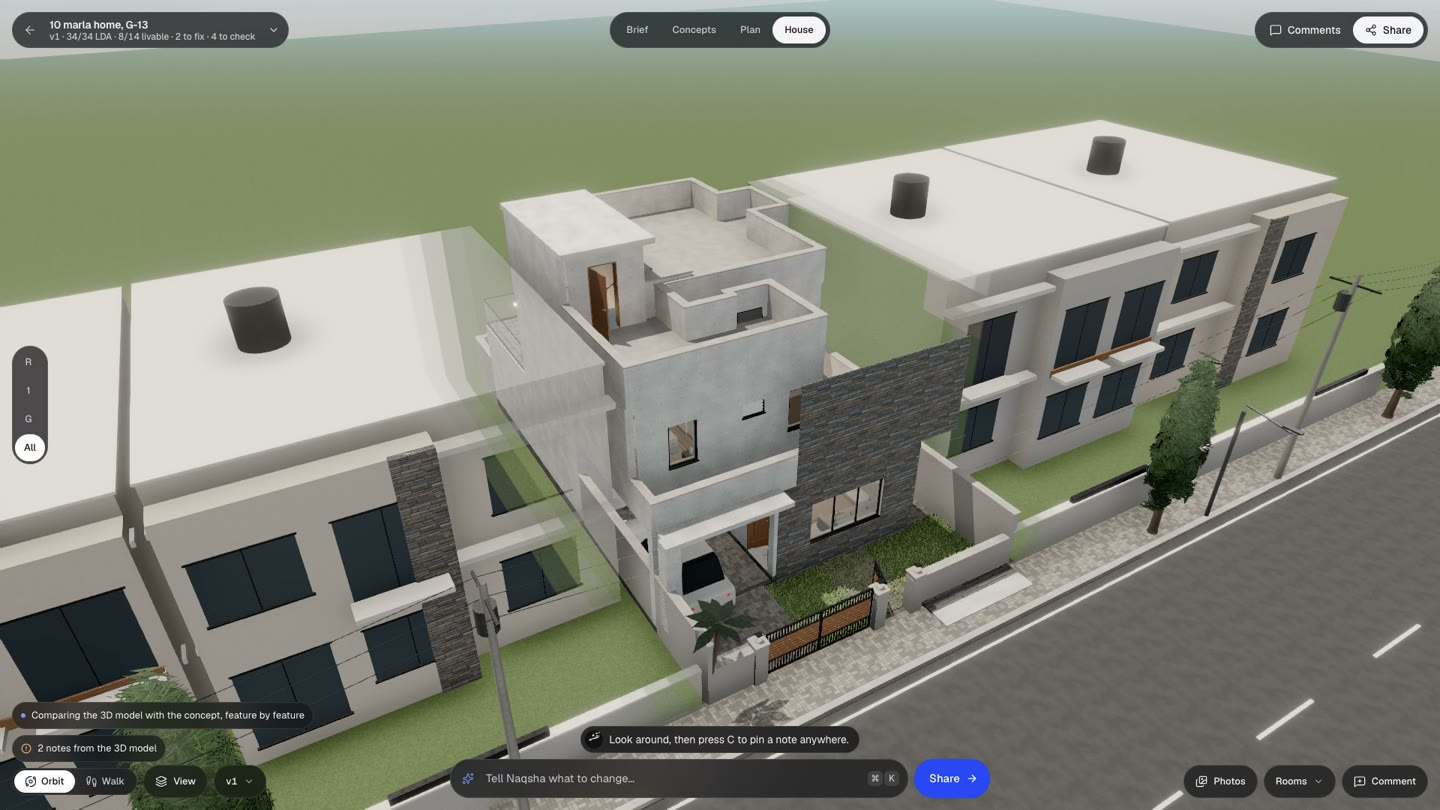
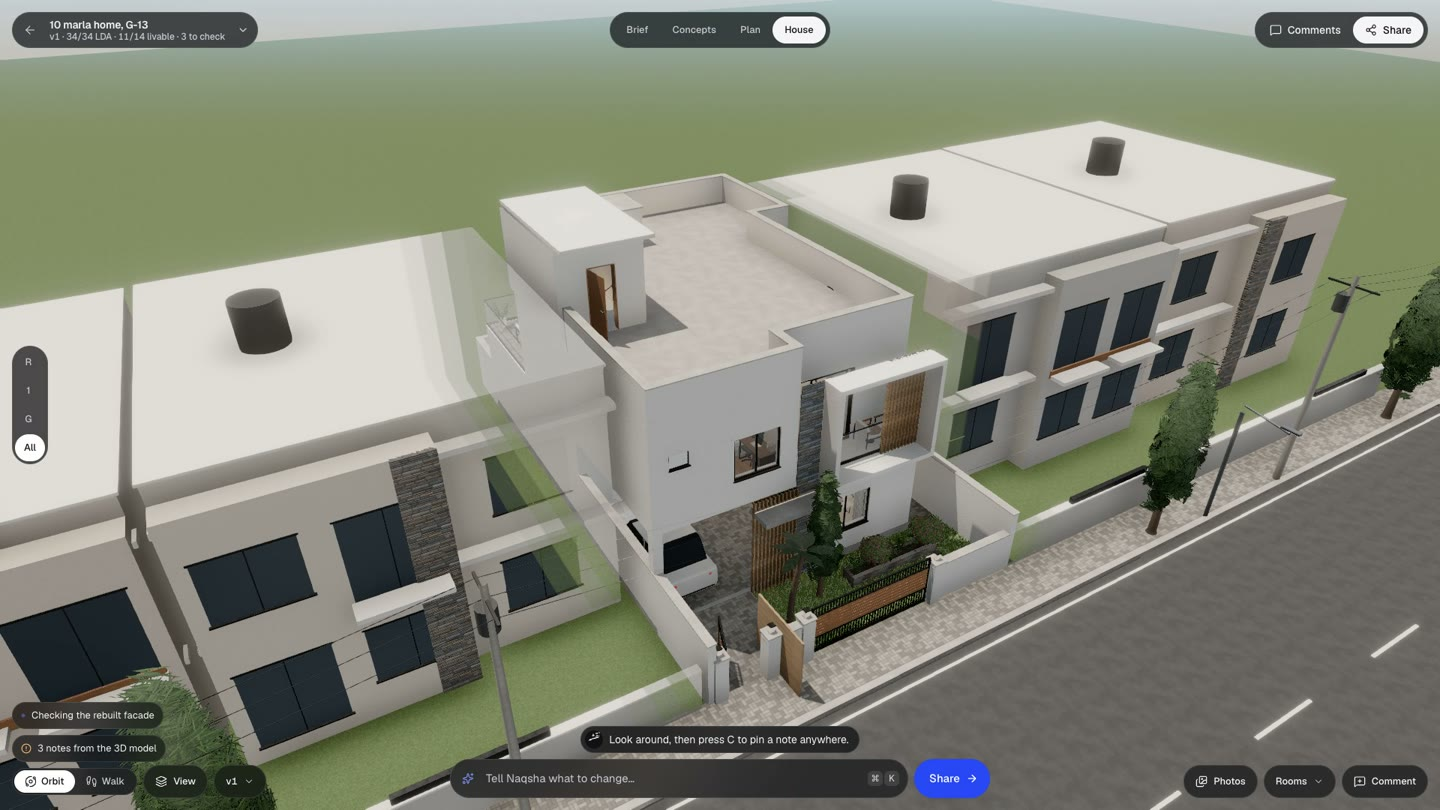
README screens from the successful Islamabad run

diff --git a/README.md b/README.md
@@ -29,11 +29,13 @@ Captured from the live app with Playwright (`submission/capture/capture.mjs`) on
 | ![Islamabad's CDA rules, researched on the web](docs/screens/rules.jpg) | ![Starting from an uploaded drawing](docs/screens/drawing.jpg) |
 | **Rules for your city.** One message about a plot in G-13 Islamabad; the CDA rules were looked up with Tavily and cited. | **Start from a drawing.** Nemotron VL read 27 rooms on 2 floors from two uploaded sheets. |
 | ![The fixer agent at work on the plan](docs/screens/plan.jpg) | ![Concepts drawn from the drawing](docs/screens/concepts.jpg) |
-| **Plan.** The fixer agent works down the failures, edit by edit ("Fixing 16 → 4"). | **Concepts.** Drawn from the family's own layout: porch on the right, drawing room front left. |
+| **Plan.** The plan that went on to pass all 34 bylaw checks, as the 3D build starts. | **Concepts.** Drawn from the family's own layout: porch on the right, drawing room front left. |
 | ![The 3D model checked against the concept](docs/screens/match.jpg) | ![Photos from four angles, made from the 3D model](docs/screens/photos.jpg) |
-| **Match.** 82% of the concept's features in the 3D model, up from 71% before the facade refit. | **Photos.** From the road, the street corner, the garden and the air, each made from the model. |
+| **Match.** 93% of the concept's features in the 3D model, up from 86% before the facade refit. | **Photos.** From the road, the street corner, the garden and the air, each made from the model. |
 | ![A photo from the street corner](docs/screens/photo-street.jpg) | ![Walking through the house](docs/screens/walk.jpg) |
 | **Street corner.** The image model keeps the model's geometry and camera. | **Walk.** First person, room by room, with a minimap. |
+| ![The house at night](docs/screens/night.jpg) | ![The 3D model from above](docs/screens/house.jpg) |
+| **Night.** Every room lit from inside. | **The model.** Stone base, timber slats, glass balcony, as in the concept. |
 
 ## How Nemotron and Nebius are used
 
